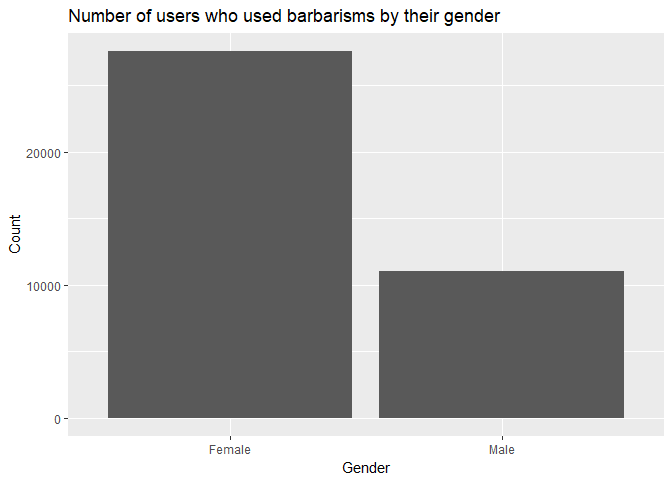
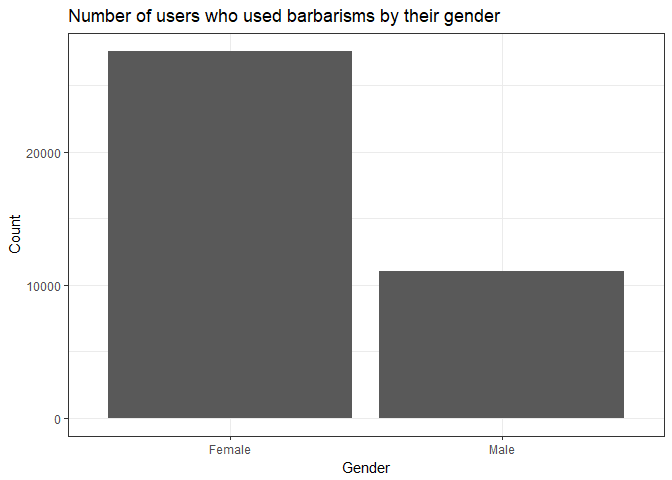
Fixed graphs visuals

diff --git a/Barbarisms.md b/Barbarisms.md
@@ -47,7 +47,7 @@ group_by(barbar_by_status, status) %>%
   )
 ```
 
-    ## # A tibble: 2 × 4
+    ## # A tibble: 2 Г— 4
     ##   status count       mean         sd
     ##    <chr> <int>      <dbl>      <dbl>
     ## 1    Big   159 0.06946605 0.04508912
@@ -139,7 +139,7 @@ group_by(barbar_by_status_detailed, status) %>%
   )
 ```
 
-    ## # A tibble: 5 × 4
+    ## # A tibble: 5 Г— 4
     ##    status count       mean          sd
     ##     <ord> <int>      <dbl>       <dbl>
     ## 1   Small    39 0.06577130 0.012087895
@@ -233,7 +233,7 @@ From this, we can see that there's no significant difference between Small and B
 Adding the rival features
 -------------------------
 
-Previously, we found out that people from the cities with the population less that 250,000 people are slightly more prone to using barbarisms in their commentaries. It is interesting to know whether there is any other factor that influences the use of barbarisms. We decided to look at the user's gender.
+Previously, we found out that people from the cities with the population less than 250,000 people are slightly more prone to using barbarisms in their commentaries. It is interesting to know whether there is any other factor that influences the use of barbarisms. We decided to look at the user's gender.
 
 We have re-analysed our data and added a new feature of the user - their gender. Our hypotesis is that female users tend to use more barbarisms than male ones. We were rather categorical in determinig if a user uses barbarisms or not. In our data if a user was detected in using a barbarism at least once, they are considered to be using barbarisms. The data are available here: <https://goo.gl/938nJg> (Warning! The data are more than 30 Mbs).
 
@@ -252,7 +252,8 @@ Let's look at how the genders are distributed:
 gender %>%
   ggplot(aes(sex_factor)) +
   geom_bar() +
-  labs(x = "Gender", y = "Count", title = "Number of males and females in the data")
+  labs(x = "Gender", y = "Count", title = "Number of males and females in the data") +
+  theme_bw()
 ```
 
 ![](Barbarisms_files/figure-markdown_github/gender%20plot-1.png)
@@ -263,7 +264,8 @@ Now, let's see how many of them used barbarisms:
 subset(gender, hasBar == 1) %>%
   ggplot(aes(sex_factor)) +
   geom_bar() +
-  labs(x = "Gender", y = "Count", title = "Number of users who used barbarisms by their gender")
+  labs(x = "Gender", y = "Count", title = "Number of users who used barbarisms by their gender") +
+  theme_bw()
 ```
 
 ![](Barbarisms_files/figure-markdown_github/gender%20barbar-1.png)
